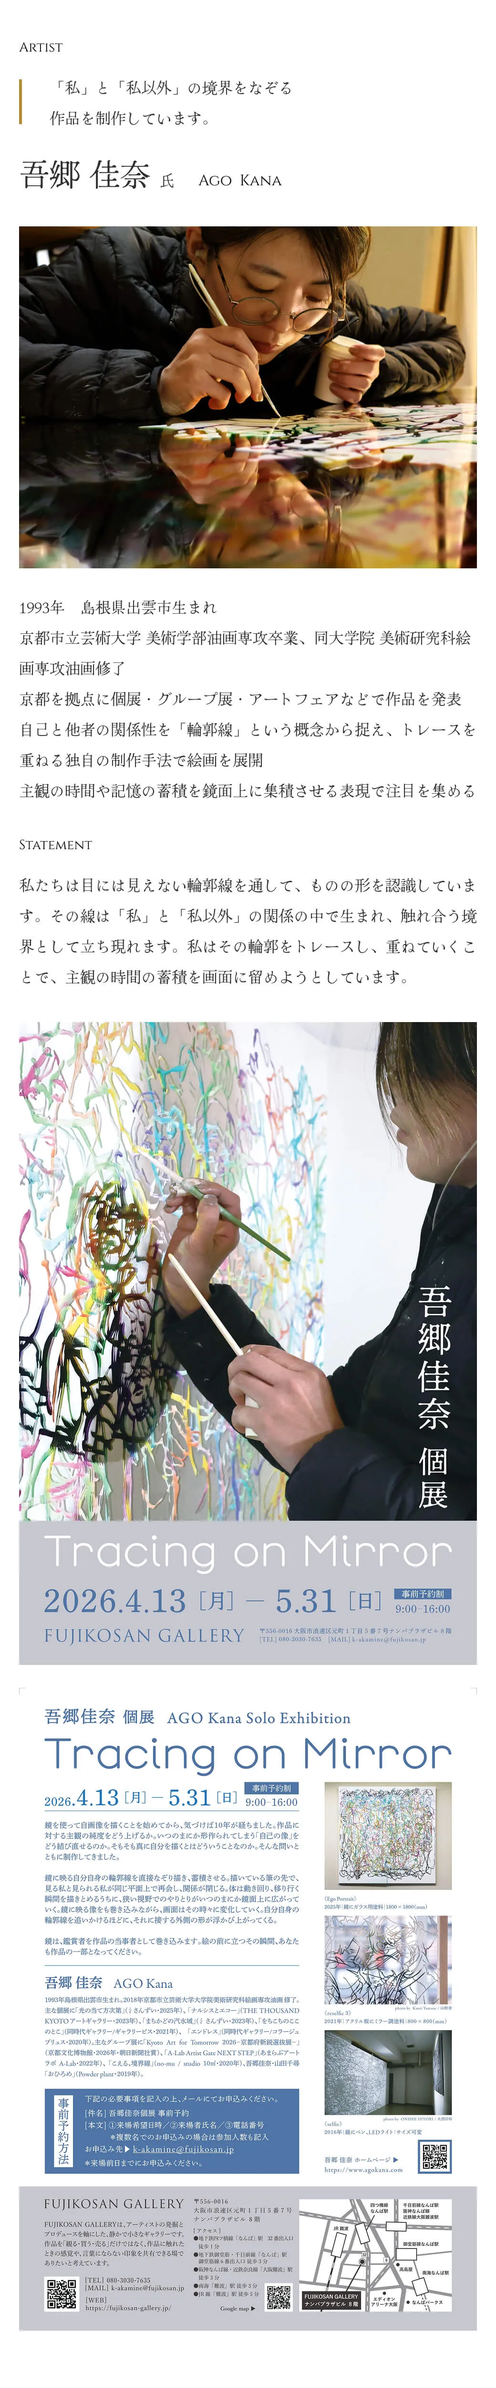
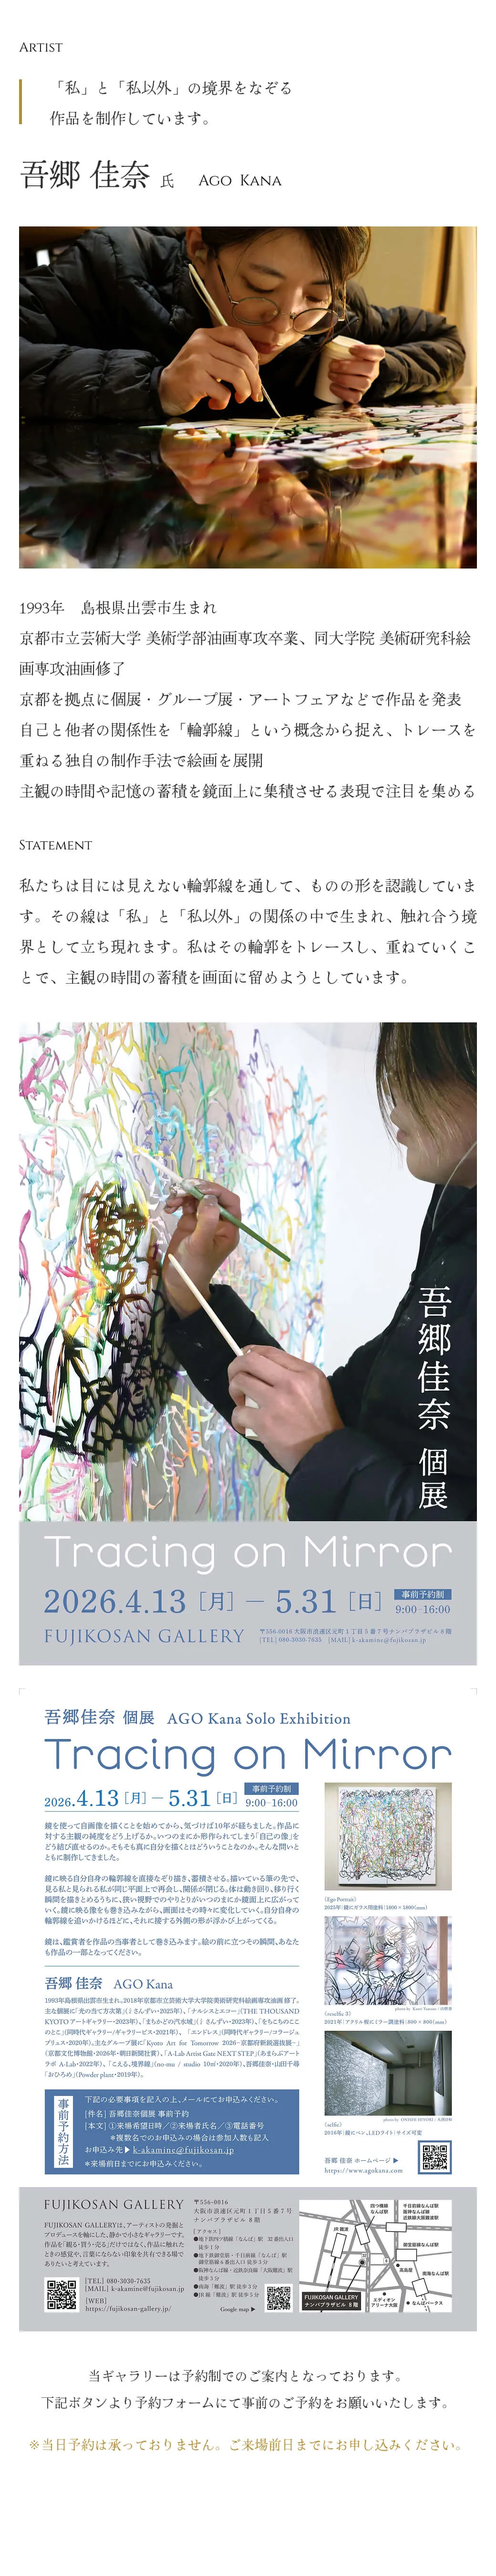
Googleフォームへのボタンを設置

diff --git a/dist/index.html b/dist/index.html
@@ -76,7 +76,10 @@
         <h3 class="sr-only">近藤 大祐</h3>
         <p class="sr-only">TAISUKE KONDO</p>
 
-        <img src="./assets/images/section_04.webp" alt="制作中の近藤大祐氏のポートレート" loading="lazy" width="500" height="1047">
+        <div class="relative">
+          <img src="./assets/images/section_04.webp" alt="制作中の近藤大祐氏のポートレート" loading="lazy" width="500" height="1047">
+          <a class="hover" href="https://docs.google.com/forms/d/e/1FAIpQLSciyafgfmfyZvKiwMrAZksdzlg0fWsa_uB_OpGVL4MfIkKAow/viewform?usp=header" target="_blank"><img class="absolute bottom-60 left-1/2 -translate-x-1/2" src="./assets/images/btn_reserve.webp" alt="予約する" width="150" height="32"></a>
+        </div>
 
         <p class="sr-only">1993年 静岡県生まれ</p>
         <p class="sr-only">京都造形芸術大学大学院 ペインティング領域修了（2018）</p>

diff --git a/dist/assets/css/style.css b/dist/assets/css/style.css
@@ -349,6 +349,10 @@
     bottom: 6.25%;
   }
 
+  .bottom-60 {
+    bottom: calc(var(--spacing) * 60);
+  }
+
   .bottom-\[23\%\] {
     bottom: 23%;
   }
